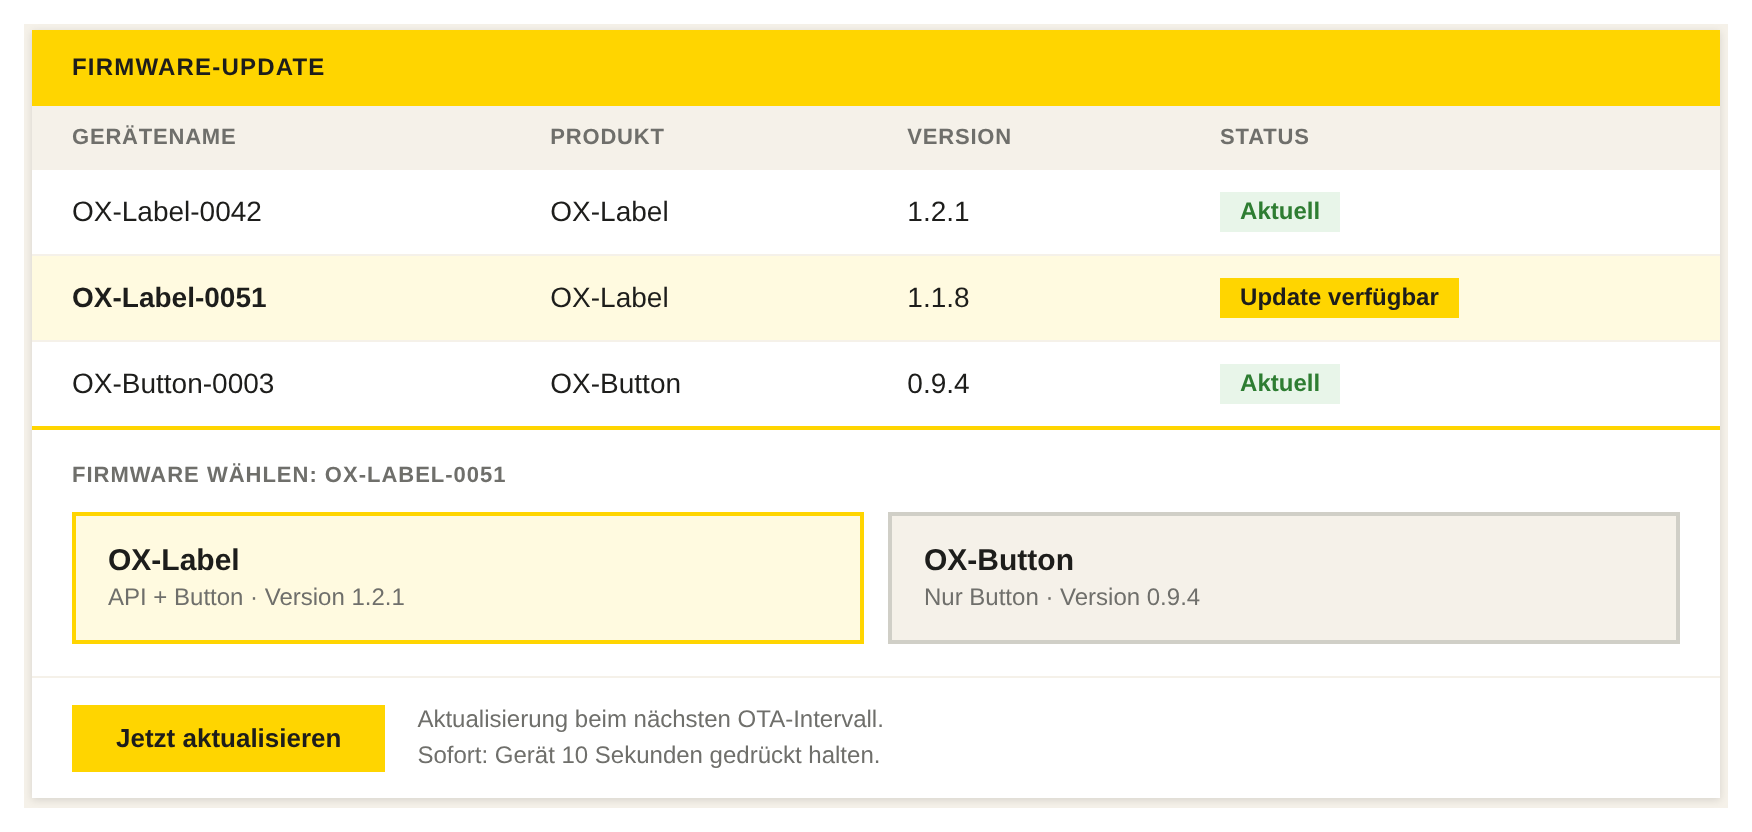
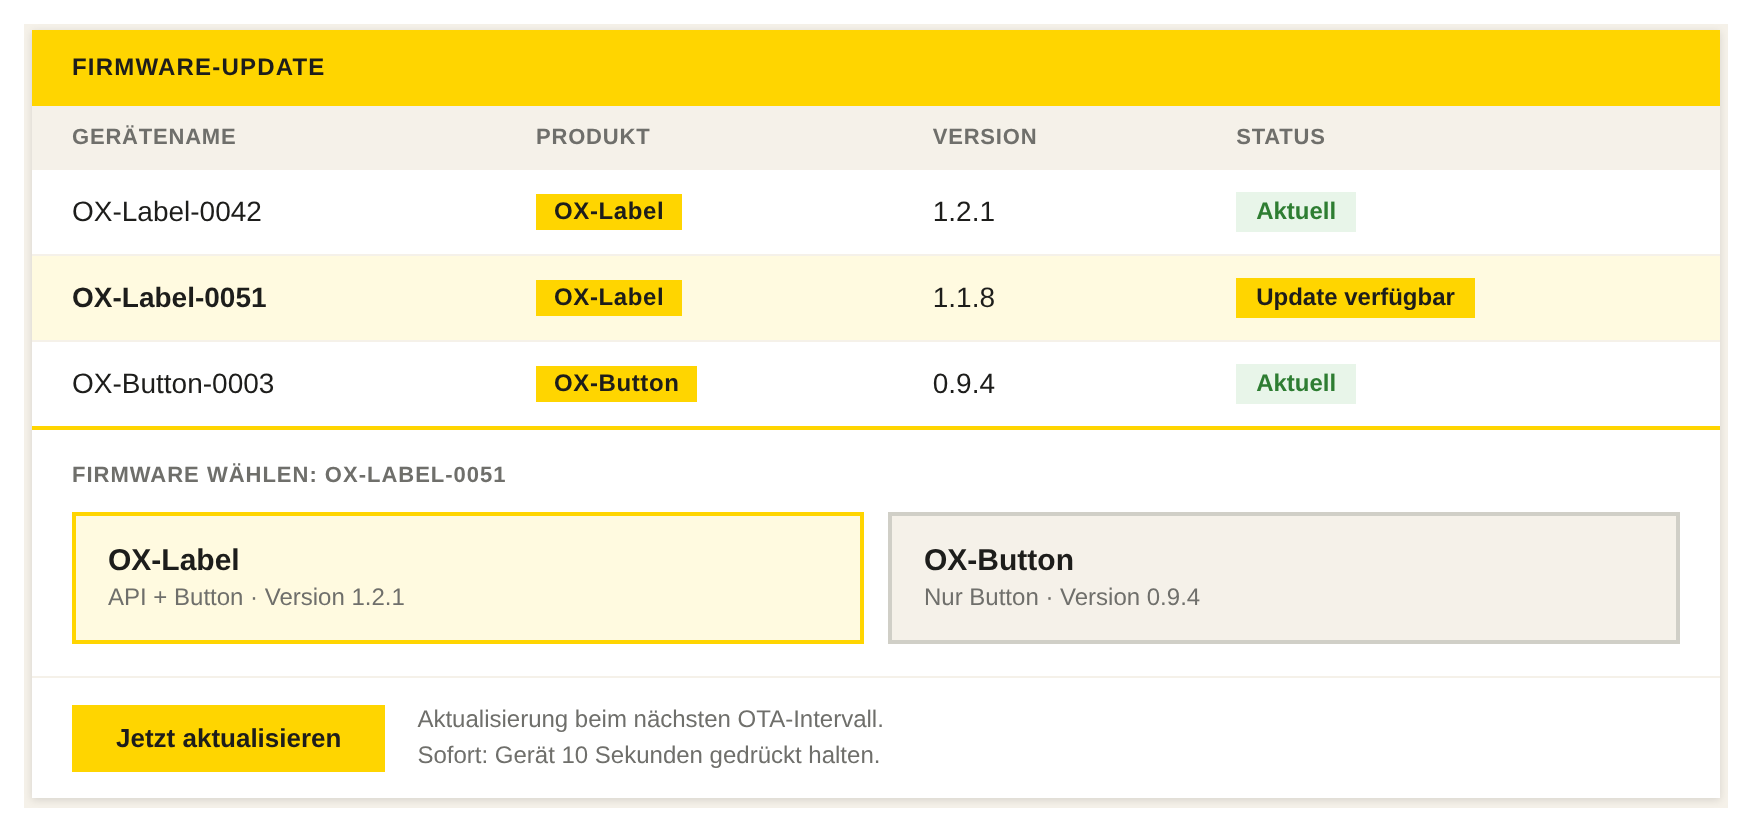
fix: highlight product names CI-compliant, drop SoC, fix OX-Label/OX-Button naming

diff --git a/assets/mockups/orgatex-mockup.css b/assets/mockups/orgatex-mockup.css
@@ -104,6 +104,15 @@ tbody td { padding: 11px 20px; color: #1d1d1b; }
   border-top: 1px solid #f5f1e9;
   line-height: 1.5;
 }
+.product-tag {
+  display: inline-block;
+  background: #ffd500;
+  color: #1d1d1b;
+  font-weight: 700;
+  font-size: 12px;
+  padding: 2px 9px;
+  letter-spacing: 0.3px;
+}
 .attr-row {
   display: flex;
   padding: 10px 20px;

diff --git a/assets/mockups/ota-dashboard.html b/assets/mockups/ota-dashboard.html
@@ -16,19 +16,19 @@
       <tbody>
         <tr>
           <td>OX-Label-0042</td>
-          <td>OX-Label</td>
+          <td><span class="product-tag">OX-Label</span></td>
           <td>1.2.1</td>
           <td><span class="badge badge-ok">Aktuell</span></td>
         </tr>
         <tr class="selected">
           <td><strong>OX-Label-0051</strong></td>
-          <td>OX-Label</td>
+          <td><span class="product-tag">OX-Label</span></td>
           <td>1.1.8</td>
           <td><span class="badge badge-update">Update verfügbar</span></td>
         </tr>
         <tr>
           <td>OX-Button-0003</td>
-          <td>OX-Button</td>
+          <td><span class="product-tag">OX-Button</span></td>
           <td>0.9.4</td>
           <td><span class="badge badge-ok">Aktuell</span></td>
         </tr>

diff --git a/assets/mockups/feature-flags.html b/assets/mockups/feature-flags.html
@@ -6,7 +6,7 @@
     <div class="ox-card-header">Server-Attribute - OX-Button-0003</div>
     <div class="attr-row">
       <div class="attr-key">product_type</div>
-      <div class="attr-val">ox_button</div>
+      <div class="attr-val"><span class="product-tag">OX-Button</span></div>
     </div>
     <div class="attr-row">
       <div class="attr-key">label_api_enabled</div>

diff --git a/presentations/fw-split-vertrieb.md b/presentations/fw-split-vertrieb.md
@@ -7,7 +7,7 @@ date: 2026-07-01
 
 ## Ausgangslage
 
-- Gleiche Hardware (nRF9151) für OX-Label und OX-Button
+- Gleiche Hardware für OX-Label und OX-Button
 - Produktidentität entsteht erst durch Firmware und Cloud-Konfiguration
 - Aktuell: eine gemeinsame Firmware mit Feature-Flags für beide Produkte
 - Frage: Weiter so, oder sauber trennen?
@@ -20,7 +20,7 @@ date: 2026-07-01
 
 ## Szenario A: Getrennte Firmwares
 
-- Zwei unabhängige Firmware-Produkte: ox-label und ox-button
+- Zwei unabhängige Firmware-Produkte: OX-Label und OX-Button
 - Je ein eigenes ThingsBoard Device Profile mit eigenem OTA-Kanal
 - OX-Label: erhält Label-Firmware via OTA beim Onboarding (API + Button aktiv)
 - OX-Button: erhält Button-Firmware via OTA beim Onboarding, kann nur als Button genutzt werden